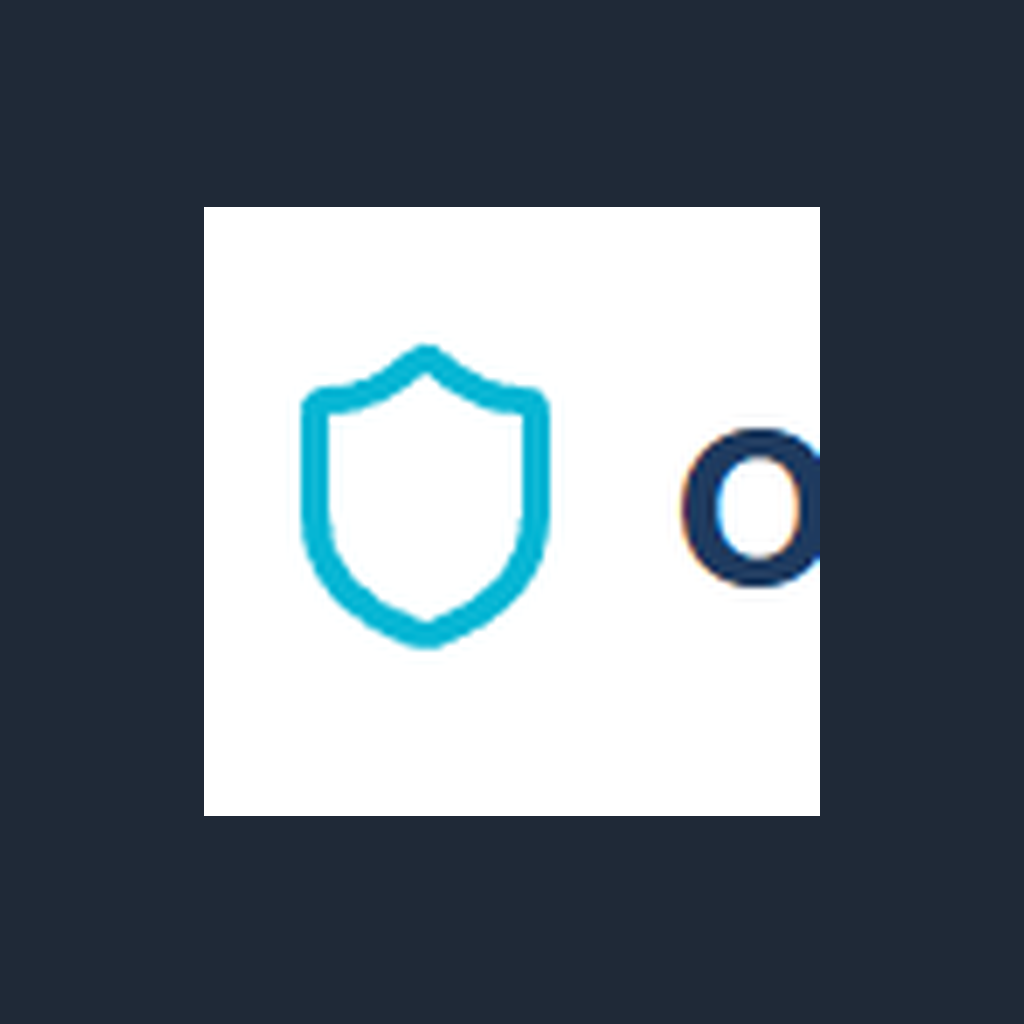
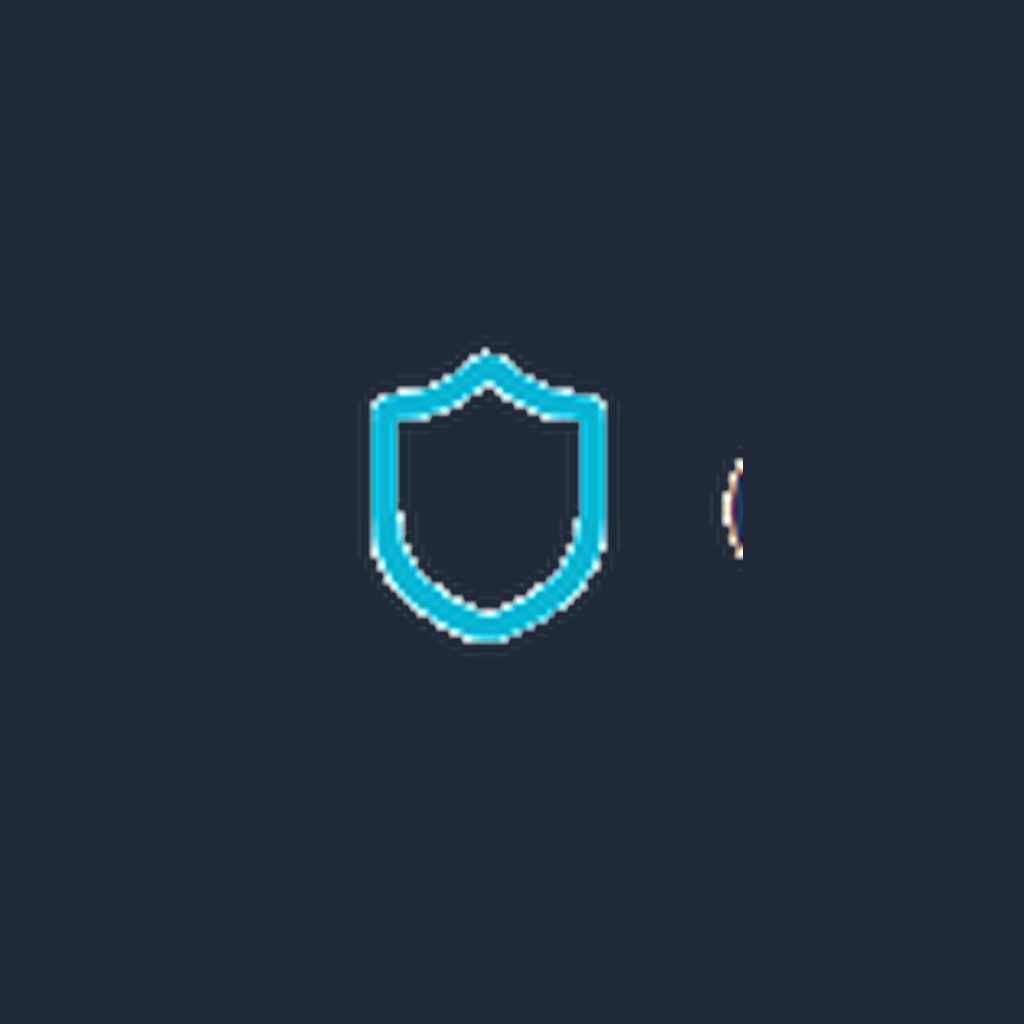
auto-commit for 2e3c2a28-7542-46b4-b7b8-037ea1eaf4f7

diff --git a/frontend/public/icons-preview.html b/frontend/public/icons-preview.html
@@ -3,54 +3,29 @@
 <head>
     <title>OhmGuard Icons Preview</title>
     <style>
-        body { 
-            background: #1a1a2e; 
-            color: white; 
-            font-family: Arial; 
-            padding: 40px;
-            text-align: center;
-        }
-        .icons { 
-            display: flex; 
-            justify-content: center; 
-            gap: 60px; 
-            flex-wrap: wrap;
-            margin-top: 40px;
-        }
-        .icon-box { 
-            text-align: center;
-            background: #16213e;
-            padding: 30px;
-            border-radius: 20px;
-        }
-        .icon-box img { 
-            border-radius: 20px;
-            box-shadow: 0 10px 30px rgba(0,188,212,0.3);
-        }
+        body { background: #1a1a2e; color: white; font-family: Arial; padding: 40px; text-align: center; }
+        .icons { display: flex; justify-content: center; gap: 60px; flex-wrap: wrap; margin-top: 40px; }
+        .icon-box { text-align: center; background: #16213e; padding: 30px; border-radius: 20px; }
+        .icon-box img { border-radius: 20px; box-shadow: 0 10px 30px rgba(0,188,212,0.3); }
         h1 { color: #00BCD4; }
         h3 { margin-top: 20px; color: #888; }
-        .notif-bg { 
-            background: #333; 
-            padding: 20px; 
-            border-radius: 10px;
-            display: inline-block;
-        }
+        .notif-bg { background: #333; padding: 20px; border-radius: 10px; display: inline-block; }
     </style>
 </head>
 <body>
-    <h1>OhmGuard Icons - Votre Logo</h1>
+    <h1>OhmGuard Icons - Votre Logo (Corrigé)</h1>
     <div class="icons">
         <div class="icon-box">
[2 lines of base64/hex data omitted]
             <h3>icon.png<br>(App Icon)</h3>
         </div>
         <div class="icon-box">
[2 lines of base64/hex data omitted]
             <h3>adaptive-icon.png<br>(Android)</h3>
         </div>
         <div class="icon-box">
             <div class="notif-bg">
[2 lines of base64/hex data omitted]
             </div>
             <h3>notification-icon.png<br>(Notifications)</h3>
         </div>
